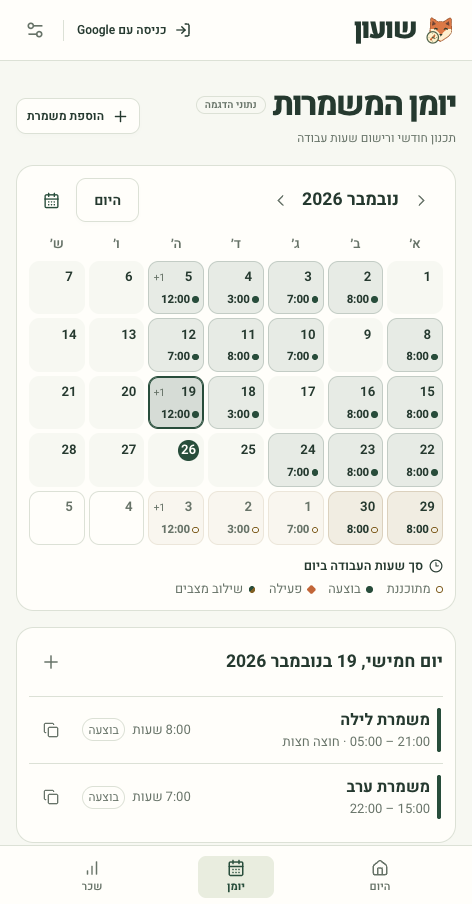
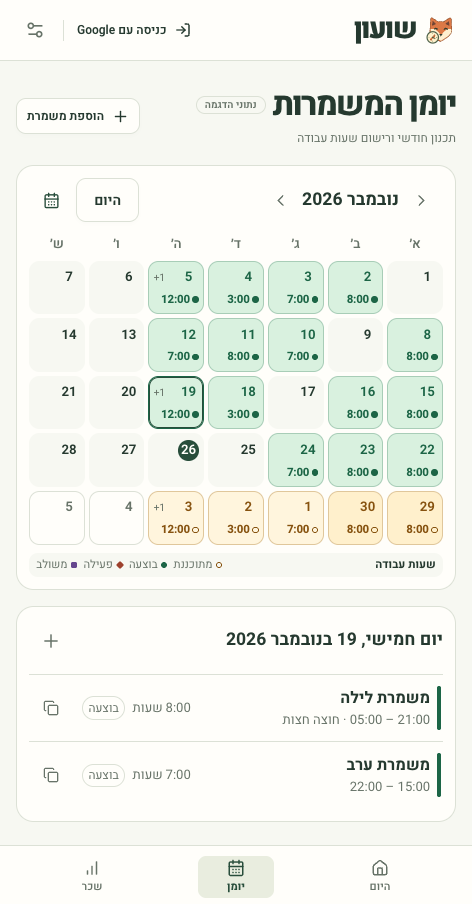
Brighten calendar status colors and compact the legend

diff --git a/src/components/monthly-calendar.css b/src/components/monthly-calendar.css
@@ -1,7 +1,12 @@
 .shift-calendar {
-  --calendar-planned: #805f22;
-  --calendar-completed: var(--green);
-  --calendar-active: var(--accent);
+  --calendar-planned: #86520f;
+  --calendar-completed: #1c6546;
+  --calendar-active: #9d412d;
+  --calendar-mixed: #65468e;
+  --calendar-planned-fill: #fff0cc;
+  --calendar-completed-fill: #d9f1df;
+  --calendar-active-fill: #ffe1d7;
+  --calendar-mixed-fill: #eee4fa;
 
   display: grid;
   align-items: start;
@@ -11,7 +16,14 @@
 }
 
 :root[data-theme='dark'] .shift-calendar {
-  --calendar-planned: #d9bd76;
+  --calendar-planned: #f2ca77;
+  --calendar-completed: #a2dfb4;
+  --calendar-active: #ffb196;
+  --calendar-mixed: #d6bafa;
+  --calendar-planned-fill: #4a381c;
+  --calendar-completed-fill: #234936;
+  --calendar-active-fill: #573127;
+  --calendar-mixed-fill: #453354;
 }
 
 .cal-month,
@@ -189,25 +201,29 @@
 
 .cal-day[data-work-status] {
   --calendar-tone: var(--calendar-completed);
-  background: color-mix(in srgb, var(--calendar-tone) 11%, var(--card));
-  border-color: color-mix(in srgb, var(--calendar-tone) 28%, var(--card));
+  --calendar-fill: var(--calendar-completed-fill);
+  background: var(--calendar-fill);
+  border-color: color-mix(in srgb, var(--calendar-tone) 26%, var(--calendar-fill));
+  color: var(--calendar-tone);
 }
 
 .cal-day[data-work-status='planned'] {
   --calendar-tone: var(--calendar-planned);
+  --calendar-fill: var(--calendar-planned-fill);
 }
 
 .cal-day[data-work-status='active'] {
   --calendar-tone: var(--calendar-active);
+  --calendar-fill: var(--calendar-active-fill);
 }
 
 .cal-day[data-work-status='mixed'] {
-  --calendar-tone: color-mix(in srgb, var(--calendar-completed), var(--calendar-planned));
+  --calendar-tone: var(--calendar-mixed);
+  --calendar-fill: var(--calendar-mixed-fill);
 }
 
 .cal-day[data-outside='true'][data-work-status] {
-  background: color-mix(in srgb, var(--calendar-tone) 5%, var(--card));
-  border-color: color-mix(in srgb, var(--calendar-tone) 15%, var(--card));
+  background: color-mix(in srgb, var(--calendar-fill) 62%, var(--card));
 }
 
 .cal-day:hover {
@@ -222,7 +238,12 @@
 }
 
 .cal-cell[aria-selected='true'] .cal-day[data-work-status] {
-  background: color-mix(in srgb, var(--calendar-tone) 19%, var(--card));
+  background: var(--calendar-fill);
+  color: var(--calendar-tone);
+}
+
+.cal-day[data-work-status]:hover {
+  border-color: var(--calendar-tone);
 }
 
 .cal-day:focus-visible {
@@ -297,45 +318,50 @@
 }
 
 .cal-indicator[data-status='mixed'] {
-  background: linear-gradient(135deg, var(--calendar-completed) 50%, var(--calendar-planned) 50%);
-}
-
-.cal-legend-wrap,
-.cal-legend-label {
-  display: flex;
-  align-items: center;
-  gap: 0.36rem;
+  background: var(--calendar-mixed);
+  border-radius: 0.1rem;
 }
 
 .cal-legend-wrap {
-  flex-wrap: wrap;
+  display: flex;
+  align-items: center;
   justify-content: space-between;
-  column-gap: 0.95rem;
-  margin-block-start: 0.75rem;
+  gap: 0.35rem;
+  margin-block-start: 0.55rem;
+  padding: 0.3rem 0.45rem;
+  border-radius: 0.55rem;
+  background: var(--paper);
+  line-height: 1.2;
+  font-size: clamp(0.66rem, 2.4vw, 0.76rem);
 }
 
 .cal-legend-label {
   color: var(--ink);
   white-space: nowrap;
-  font-size: 0.8rem;
-  font-weight: 600;
+  font-weight: 700;
 }
 
 .cal-legend {
   display: flex;
   flex-wrap: wrap;
-  gap: 0.25rem 0.85rem;
+  justify-content: end;
+  gap: 0.2rem clamp(0.22rem, 1.35vw, 0.6rem);
   padding: 0;
   margin: 0;
   list-style: none;
   color: var(--muted);
-  font-size: 0.8rem;
 }
 
 .cal-legend li {
   display: flex;
   align-items: center;
-  gap: 0.35rem;
+  gap: 0.22rem;
+  white-space: nowrap;
+}
+
+.cal-legend .cal-indicator {
+  width: 0.38rem;
+  height: 0.38rem;
 }
 
 .cal-agenda-heading h2 {

diff --git a/src/components/Calendar.tsx b/src/components/Calendar.tsx
@@ -35,7 +35,7 @@ const weekdays = [
 ]
 const statusLabels = { planned: 'מתוכננת', completed: 'בוצעה', active: 'פעילה' }
 const statusKeys = ['planned', 'completed', 'active'] as const
-const legendLabels = { ...statusLabels, mixed: 'שילוב מצבים' }
+const legendLabels = { ...statusLabels, mixed: 'משולב' }
 const arrowSteps: Record<string, number> = { ArrowLeft: 1, ArrowRight: -1, ArrowUp: -7, ArrowDown: 7 }
 const earliestDate = '0001-01-01'
 const latestDate = '9999-12-31'
@@ -287,7 +287,7 @@ export function Calendar({
           </div>
         </div>
         <div className="cal-legend-wrap">
-          <span className="cal-legend-label"><Clock3 size={14} aria-hidden="true" /> סך שעות העבודה ביום</span>
+          <span className="cal-legend-label" title="סך שעות העבודה ביום">שעות עבודה</span>
           <ul className="cal-legend" aria-label="מצבי משמרות">
             {([...statusKeys, 'mixed'] as const).map((status) => (
               <li key={status}>
